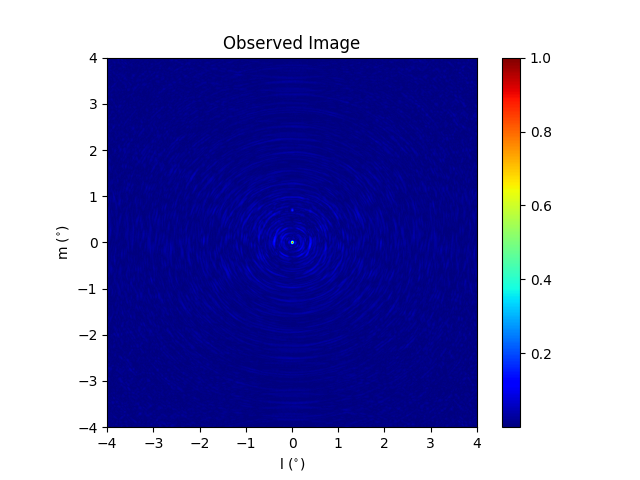
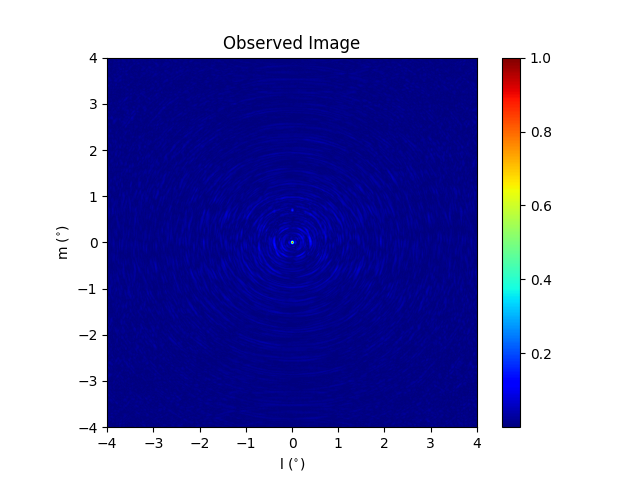
update

Changed region(s): [[0.3125, 0.375, 0.5938, 0.625], [0.2188, 0.5, 0.2812, 0.5312], [0.625, 0.4688, 0.6562, 0.5]]

diff --git a/assignment2/PartB/simvis.py b/assignment2/PartB/simvis.py
@@ -95,7 +95,7 @@ class SimVis:
         scaled_uv[:, 1] /= (2 * self.v_max / self.Ny)
         scaled_uv[:, 0] += self.Nx / 2
         scaled_uv[:, 1] += self.Ny / 2
-        return scaled_uv
+        return np.round(scaled_uv).astype(int)
 
     def _get_xyz(self, baseline):
         L = self.config["lat"]
@@ -119,11 +119,14 @@ class SimVis:
     def _grid(self):
         sources = self.skymodel_df[["flux", "l", "m"]].values
         for i, uv_point in enumerate(self.scaled_uv):
-            u = int(uv_point[0])
-            v = int(uv_point[1])
-            self.gridded_uv[v, u] = 1
-            flux, l, m = sources[:, 0], sources[:, 1], sources[:, 2]
-            self.gridded_vis[v, u] += np.sum(flux * np.exp(-2 * np.pi * 1j * (l * self.uv[i][0] + m * self.uv[i][1])))
+            u = uv_point[0]
+            v = uv_point[1]
+            if 0 <= u < self.Nx and 0 <= v < self.Ny:
+                self.gridded_uv[v, -u] = 1
+                flux, l, m = sources[:, 0], sources[:, 1], sources[:, 2]
+                self.gridded_vis[v, -u] += np.sum(
+                    flux * np.exp(-2 * np.pi * 1j * (l * self.uv[i][0] + m * self.uv[i][1]))
+                )
 
     def plot_sky_model(self):
         size = self.img_conf["plane_size"] / 2
